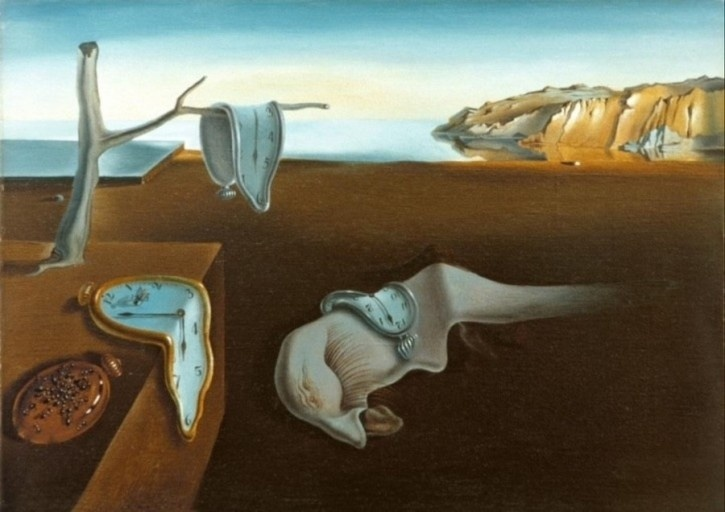
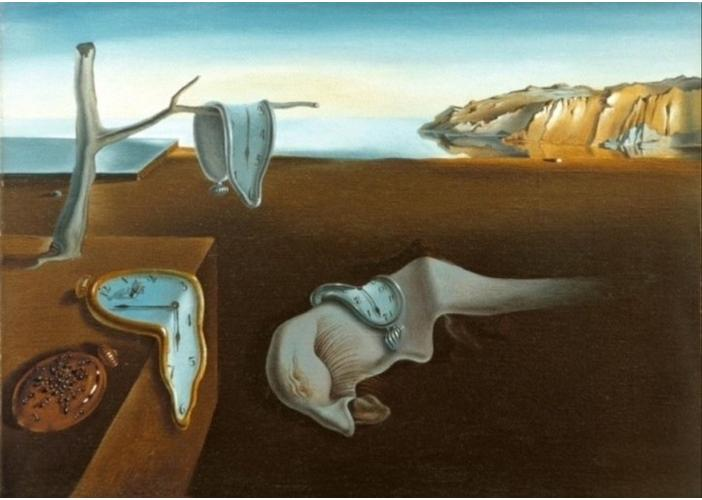
사진 조정, 패딩까지 완료

diff --git a/api/upload.py b/api/upload.py
@@ -6,16 +6,16 @@ from werkzeug.utils import secure_filename
 from flask import current_app
 
 from PIL import Image, ImageOps
-import imghdr
 
 upload = Blueprint('upload', __name__)
 
 ALLOWED_EXTENSIONS = {'png', 'jpg', 'jpeg', 'gif'}
+UPLOAD_FOLDER = 'image'
+TARGET_SIZE = (702, 500)  # 원하는 사이즈 (가로, 세로)
 
 def allowed_file(photoname):
     return '.' in photoname and photoname.rsplit('.', 1)[1].lower() in ALLOWED_EXTENSIONS
 
-UPLOAD_FOLDER = 'image'
 
 def save_uploaded_photos(photos):
     photo_paths = []
@@ -23,8 +23,26 @@ def save_uploaded_photos(photos):
         if photo and allowed_file(photo.filename):
             filename = secure_filename(photo.filename)
             filepath = os.path.join(current_app.config['UPLOAD_FOLDER'], filename)
-            photo.save(filepath)
-            photo_paths.append(filepath)
+            # photo.save(filepath)
+            # photo_paths.append(filepath)
+            
+            try:
+                image = Image.open(filepath)
+                image.thumbnail(TARGET_SIZE, Image.Resampling.LANCZOS)  #원본 비율 유지하면서 TARGET_SIZE에 맞춤
+                
+                # 패딩을 추가하여 정확한 TARGET_SIZE에 맞춤
+                delta_w = TARGET_SIZE[0] - image.size[0]
+                delta_h = TARGET_SIZE[1] - image.size[1]
+                padding = (delta_w // 2, delta_h // 2, delta_w - (delta_w // 2), delta_h - (delta_h // 2))
+                new_image = ImageOps.expand(image, padding, (255, 255, 255))  # 흰색 배경
+                
+                # 변경된 이미지를 다시 저장
+                new_image.save(filepath)
+                photo_paths.append(filepath)
+                
+            except Exception as e:
+                print(f'이미지 처리 중 오류 발생: {e}')
+                continue
         else:
             print(f'허용되지 않은 파일 형식: {photo.filename}')
     return photo_paths
